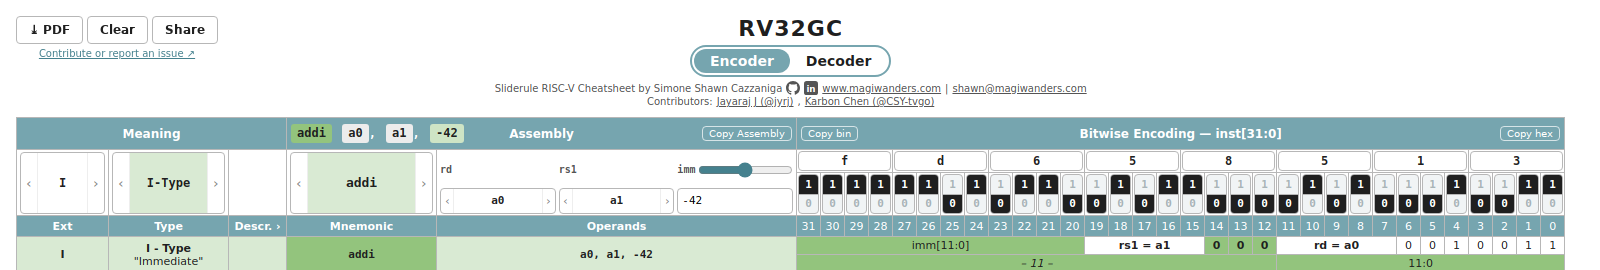
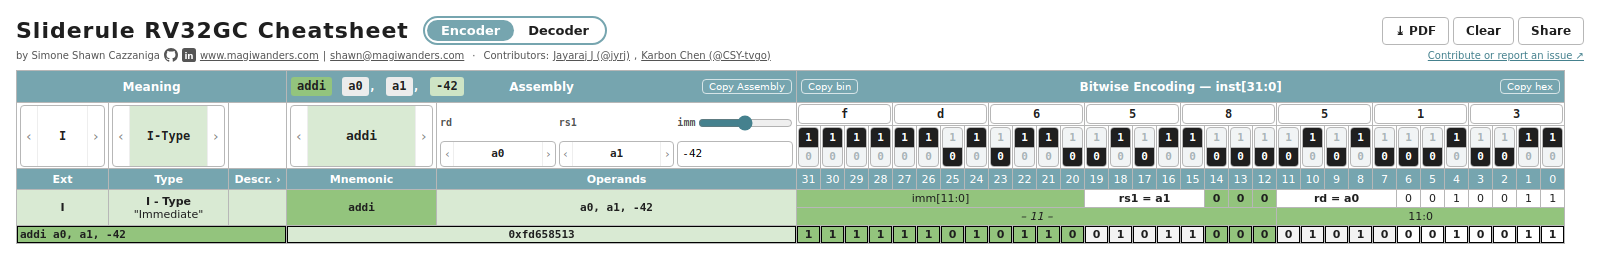
One fixed header above both sheets; switch scrolls along and ends right aligned
- Header: "Sliderule RV32GC Cheatsheet" with the Encoder / Decoder pill on
  the left, PDF / Clear / Share on the right (acting on the shown sheet),
  credits, contributors and the contribution link below. It spans the
  visible width and does not move when switching, which also removes the
  title / pill sometimes vanishing (they were cross-faded inside the sheets)
- The switch scrolls the page along with the slide and ends right aligned,
  so nothing jumps when it finishes; cleanup runs even if an animation is
  cancelled
- The new sheet's bits fade in through one animated property instead of
  one animation per cell
- Sheet tables are #encoder-sheet / #decoder-sheet so the #encoder /
  #decoder URL hash no longer scrolls the page to them
- PDF: the header (without its buttons) above the sheet

diff --git a/public/styles.css b/public/styles.css
@@ -43,6 +43,9 @@
 .stage.switching { overflow-x: clip; }
 .stage.switching > .view { visibility: visible; height: auto; overflow: visible; }
 .stage.switching > .view.incoming { position: relative; z-index: 1; }
+/* The incoming sheet's bit columns fade in over the outgoing sheet's: one animated property for all their cells. */
+@property --spine-opacity { syntax: '<number>'; inherits: true; initial-value: 1; }
+.stage.switching > .view.incoming :is(thead .spine, tbody td.bit) { opacity: var(--spine-opacity); }
 
 /* ---------- sliderule table ---------- */
 
@@ -62,36 +65,26 @@ table.sliderule {
   text-overflow: ellipsis;
 }
 
-/* Title, as on the paper sheets (a caption: it spans the whole table). */
-.sliderule > caption.title-cell {
-  padding: 0 0 10px;
-}
-
-.title-bar {
-  display: grid;
-  grid-template-columns: 1fr auto 1fr;
-  align-items: start;
-}
-
-.title-main { text-align: center; }
-.title-isa { font-size: 22px; font-weight: bold; letter-spacing: 1px; }
-.title-credits { display: flex; align-items: center; justify-content: center; gap: 4px; font-size: 10px; font-weight: normal; color: #555; margin-top: 4px; }
-.title-credits a { color: inherit; }
-.title-contributors { margin-top: 1px; }
-.title-credits a:hover { color: var(--focus); }
+/* Header above both sheets: one line of title, pill and tools, one small line of credits and the contribution
+   link. It spans the visible width (set by script) and stays in view when the sheets scroll sideways. */
+.sliderules-app { width: max-content; min-width: 100%; }
+.sheet-header { position: sticky; left: 16px; box-sizing: border-box; margin-bottom: 8px; }
+.header-main { display: flex; align-items: center; gap: 14px; }
+.header-title { font-size: 22px; font-weight: bold; letter-spacing: 1px; white-space: nowrap; }
+.header-tools { display: flex; gap: 4px; margin-left: auto; }
+.tool-button.header-tool { padding: 6px 12px; font-size: 12px; font-weight: bold; }
+.header-sub { display: flex; align-items: center; gap: 12px; margin-top: 3px; font-size: 10px; color: #555; }
+.header-credits { display: flex; flex-wrap: wrap; align-items: center; gap: 0 4px; }
+.header-credits a { color: inherit; }
+.header-credits a:hover { color: var(--focus); }
+.header-separator { margin: 0 4px; }
 .credit-icon { display: inline-flex; color: #333; }
 .credit-icon:hover { color: var(--focus); }
-.title-tools { position: sticky; left: 8px; right: 8px; display: flex; flex-direction: column; gap: 4px; }
-.title-buttons { display: flex; gap: 4px; }
-.tool-button.title-tool { padding: 6px 12px; font-size: 12px; font-weight: bold; }
-.contribute-link { font-size: 10px; color: var(--focus); }
-.title-corner { display: flex; }
-.title-corner.right { justify-content: flex-end; text-align: right; }
+.contribute-link { margin-left: auto; color: var(--focus); white-space: nowrap; }
 
-/* Encoder / Decoder pill under the big title. */
+/* Encoder / Decoder pill, next to the title. */
 .mode-pill {
   display: inline-flex;
-  margin-top: 4px;
   padding: 2px;
   border: 2px solid var(--section);
   border-radius: 999px;
@@ -99,14 +92,14 @@ table.sliderule {
 }
 
 .mode-segment {
-  padding: 4px 16px;
+  padding: 3px 14px;
   border: none;
   border-radius: 999px;
   background: transparent;
   color: var(--text);
-  font: bold 14px Arial, Helvetica, sans-serif;
+  font: bold 13px Arial, Helvetica, sans-serif;
   cursor: pointer;
-  transition: background 0.15s, color 0.15s;
+  transition: background 0.3s, color 0.3s;
 }
 
 .mode-segment.selected { background: var(--section); color: #fff; cursor: default; }

diff --git a/CLAUDE.md b/CLAUDE.md
@@ -11,9 +11,9 @@ extension, has its own checklist below.
 | `src/isa/rv32gc.mjs` | **All instruction data**: formats, decoder sections, groups, instructions, unused opcodes, pseudo-instructions. Encodings are strings in the spec's notation. |
 | `src/isa/codec.mjs` | Everything derived from that data: parsing encodings into segments, masks, matching, decoding, encoding, pseudo-instruction expansion, operand descriptions for the UI. No DOM. |
 | `src/isa/api-gen.js` | Writes `public/isa/*.json` (the data as an API) during `npm run build`. |
-| `src/sliderule.mjs` | The app: state, encoder selectors, decoder output, URL state (share links), view switching animation. |
+| `src/sliderule.mjs` | The app: state, encoder selectors, decoder output, header tools, URL state (share links), view switching animation. |
 | `src/encoder.mjs`, `src/selector.mjs` | Encoder table (a2b) and decoder table (b2a). |
-| `src/cells.mjs` | Table cells shared by both tables, the title. |
+| `src/cells.mjs` | Table cells shared by both tables, the header above them (title, pill, tools, credits). |
 | `src/carousel.mjs`, `src/builders.mjs`, `src/tristate.mjs` | Carousel selector, encoder operand selectors, the 32 bit 0/1/x switches. |
 | `src/pdf.mjs` | PDF download of the visible sheet (loads html-to-image and jsPDF from CDNs on demand). |
 | `public/` | Copied as is into the build: `styles.css`, `embed.js` (one-line embedding), `index.html`. |
